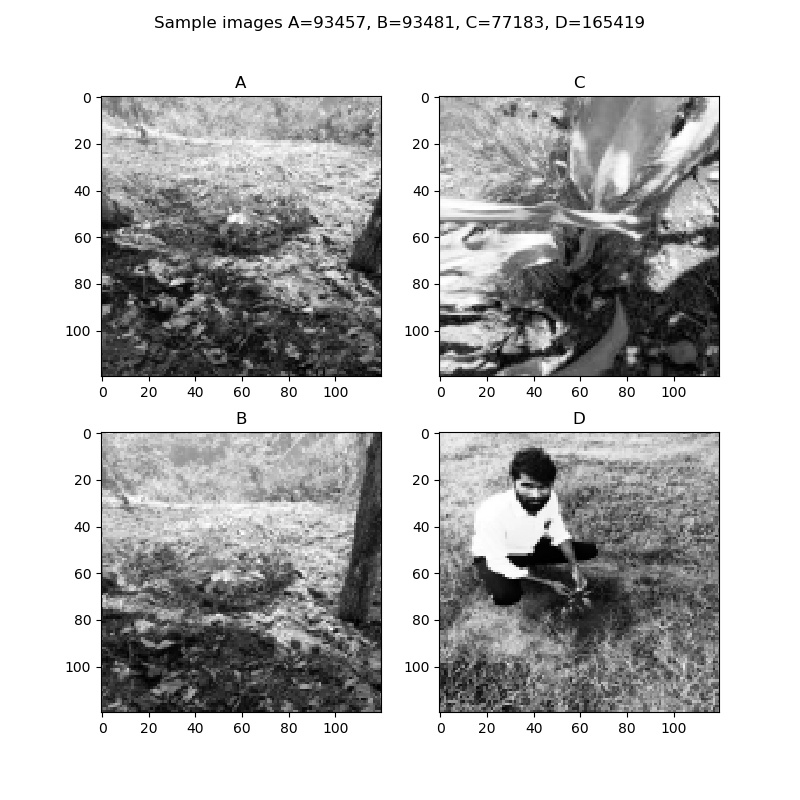
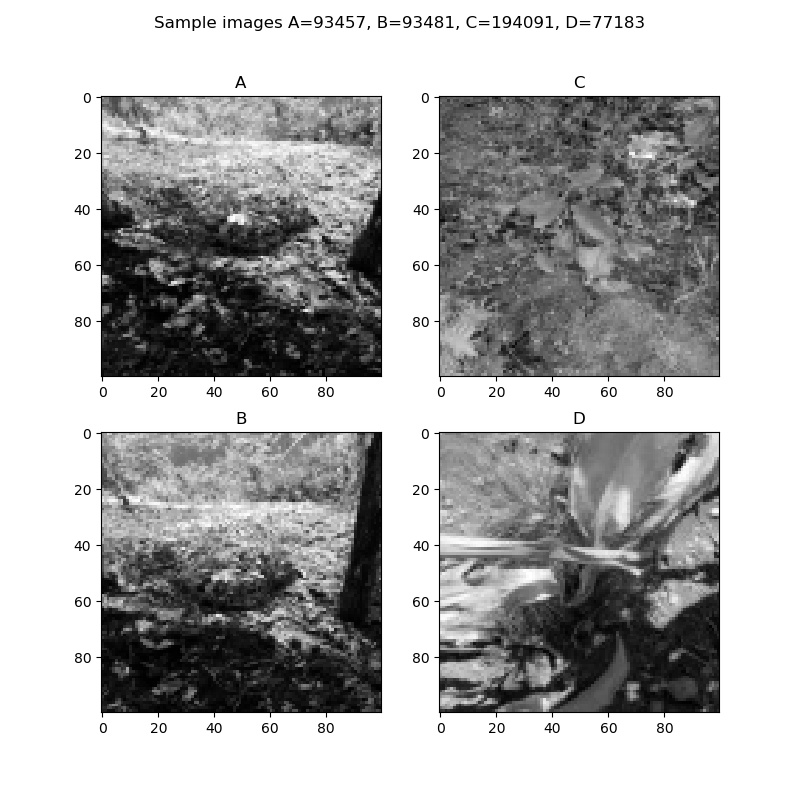
custom hashes

diff --git a/hash.py b/hash.py
@@ -1,6 +1,31 @@
 import cv2
 import numpy as np
 from scipy.fft import dctn
+from scipy.ndimage import maximum_filter, minimum_filter
+
+
+def hamming_sort(candidate_image_hash, compared_image_hashes):
+    '''
+    A helper function to sort a list of image hashes (represented as integers) by Hamming distance from the
+    specified candidate image hash
+    :param candidate_image_hash: Hash to look for
+    :param compared_image_hashes: List of integers consisting of the image hashes to compare to
+    :return: tuple(np.ndarray, np.ndarray) of sorted arguments and the corresponding hamming distance
+    '''
+    hammings = [hamming_distance(candidate_image_hash, h) for h in compared_image_hashes]
+    idxs = np.argsort(hammings)
+    return idxs, np.sort(hammings)
+
+
+def binary_array_to_int(arr):
+    '''
+    Helper function to take binary bitmask and return sum of 2 ** x for each index x in the flattened arr
+    such that arr[x] = 1.
+    :param arr: binary array
+    :return: int
+    '''
+    return int(np.sum(np.exp2(np.flatnonzero(arr))))
+
 
 def hamming_distance(img1_hash, img2_hash):
     '''
@@ -14,17 +39,17 @@ def hamming_distance(img1_hash, img2_hash):
         raise ValueError("arguments must be decimal integers, arguments provided are %s, %s" %(type(img1_hash), type(img2_hash)))
     return np.binary_repr(img1_hash ^ img2_hash).count("1")
 
-def preprocess(images):
+
+def preprocess(images, size, interp=cv2.INTER_AREA):
     '''
     Short method to apply several transformations before hashing procedure.
     :param images: (list) images to transform
     :return: (list) of transformed images corresponding to passed images
     '''
-    return [cv2.equalizeHist(
-                cv2.cvtColor(
-                np.uint8(
-                cv2.normalize(img, None, 0, 255, cv2.NORM_MINMAX)) ,
-                cv2.COLOR_BGR2GRAY)) for img in images]  # or convert) for img in images]
+    return [cv2.resize(
+            cv2.cvtColor(
+            np.uint8(
+            cv2.normalize(img, None, 0, 255, cv2.NORM_MINMAX)) ,cv2.COLOR_BGR2GRAY), (size,size), interpolation=interp)for img in images]  # or convert) for img in images]
 
 
 class HashCode():
@@ -60,16 +85,6 @@ class ImageHasher():
 
 
 
-    def binary_array_to_int(self, arr):
-        '''
-        Helper function to take binary bitmask and return sum of 2 ** x for each index x in the flattened arr
-        such that arr[x] = 1.
-        :param arr: binary array to
-        :return:
-        '''
-        return int(np.sum(np.exp2(np.flatnonzero(arr))))
-
-
     def average_hash(self, img):
         '''
         Averge hashing implementation to return hash of bits greater than average of
@@ -80,7 +95,7 @@ class ImageHasher():
         resized = cv2.resize(img, (self.size, self.size), interpolation=cv2.INTER_AREA)
         # following one liner avoids unnecessary variable assignment. The average hash takes the mean grayscal pixel intensity
         # and generates hash from (flattened) indices greater than the mean
-        return self.binary_array_to_int(resized > np.mean(resized))
+        return resized > np.mean(resized)
 
     def difference_hash(self, img):
         '''
@@ -94,25 +109,27 @@ class ImageHasher():
         resized = cv2.resize(img, (self.size + 1, self.size), interpolation=cv2.INTER_AREA)
         # following one liner avoids unnecessary variable assignment. The difference hash takes the left-right difference
         # of grayscale pixel intensities and generates a hash from the indices
-        return self.binary_array_to_int(resized[:, 1:] > resized[:, :-1])
+        return resized[:, 1:] > resized[:, :-1]
 
 
-    def dct_hash(self, img):
+    def dct_hash(self, img, blur_dim=7):
         '''
         :param img: (np.ndarray) the RGB image to find a difference hash function of
         :param hash_size: (int) the number of bits in the hash (ex. setting to 8 yields 2**8=64 bit address)
-        :return: (int) 2 ** hash_size bit image hash function
+        :param blur_dim(int) size of square mean-filter
+        :return: (tuple(np.ndarray, np.ndarray)) 2 ** hash_size bit image hash binary array and DCT matrix output
         '''
         if self.size != 8:
-            raise UserWarning("Original DCT was 8 x 8 so size parameter of ImageHash object may be off")
-        dct_matx = dctn(img, type=2)[:self.size,:self.size].flatten() # original algorithm selects top 8x8=64
-        return self.binary_array_to_int(dct_matx > np.median(dct_matx))
+            print("Original DCT was 8 x 8 so size parameter of ImageHash object may be off")
+        dct_matx = dctn(cv2.blur(img, (blur_dim, blur_dim)), type=2,norm="ortho")
+        tr_matx = dct_matx[:self.size,:self.size].flatten()# original algorithm selects top 8x8=64
+        return tr_matx > np.median(tr_matx), dct_matx
 
 
 
     def marr_hildreth_hash(self, img, std=3, ksize=3):
         '''
-
+        TODO: Edge-detector based hash
         :param img:
         :param std:
         :param ksize:
@@ -121,3 +138,31 @@ class ImageHasher():
         resized = cv2.resize(cv2.cvtColor(img, cv2.COLOR_RGB2GRAY), (self.size, self.size), interpolation=cv2.INTER_AREA)
         img = cv2.Laplacian(cv2.GaussianBlur(img, (std,std), 0), kernel_size=ksize)
         # TODO: Finish marr hildreth edge-based hash if others don't work
+
+
+    def histo_hash(self, img, nbins=64, filter_size=5):
+        '''
+        Use histogram of pixel intensity values to generate non-positional hash
+        :param nbins: Number of bits = number of bins
+        :param filter_size: size of square max/min filtering operations
+        :return: (np.ndarray) binary array
+        '''
+        diff = maximum_filter(img, size=(filter_size, filter_size)) - minimum_filter(img, size=(filter_size,filter_size))
+        histo = np.histogram(diff, bins=nbins)[0]
+        histo = np.log10(histo + 1)
+        return  histo > np.median(histo)
+
+
+    def histo_avg_hash(self, img, nbins=32, filter_size=5):
+        '''
+        Use histogram of pixel intensity values to generate non-positional hash and concatenate to
+        average hash so positional and nonpositional information is accounted for.
+        :param nbins: Number of bits = number of bins
+        :param filter_size: size of square max/min filtering operations
+        :return:
+        '''
+        diff = maximum_filter(img, size=(filter_size, filter_size)) - minimum_filter(img, size=(filter_size,filter_size))
+        histo = np.histogram(diff, bins=nbins)[0]
+        histo = np.log10(histo + 1)
+        resized = cv2.resize(img, (8,8))
+        return np.concatenate([histo > np.median(histo), (resized > np.mean(resized)).flatten()])

diff --git a/process_playground.py b/process_playground.py
@@ -6,41 +6,37 @@ import cv2
 import numpy as np
 import imagehash
 import os
-from hash import ImageHasher, hamming_distance, preprocess
-
+from scipy.ndimage import maximum_filter, minimum_filter
+from hash import *
 
 # to 93457 to 93481 duplicates
 data = GreenstandDataset('nov11data.csv')
 key1 = 93457
 key2 = 93481
-key3 = int(7.718300000000000000e+04)
-key4 = int(1.654190000000000000e+05)
+random_ids = np.loadtxt("onepercentids.txt")
+randoms = [data.read_image_from_db('random_zeroone_percent_db/', key=int(r)) for r in random_ids]
 
 # Comparison test
 a = data.read_image_from_db('duplicates_db/', key=key1)
 b = data.read_image_from_db('duplicates_db/', key=key2)
-c = data.read_image_from_db(os.path.join(os.getcwd(), 'random_zeroone_percent_db/'), key=key3)
-d = data.read_image_from_db('random_zeroone_percent_db/', key=key4)
-images = [a,b,c,d]
-images = preprocess(images)
-size = 120
-images = [cv2.resize(img,(size,size), interpolation=cv2.INTER_AREA) for img in images]
+images = [a, b] + randoms
+images = preprocess(images, size=100)
 
 # if doing hash comparison is slow consider switching to greyscale and
 # making images smaller
-fig, axarr = plt.subplots(2,2, figsize=(8,8))
-plt.suptitle("Sample images A=%d, B=%d, C=%d, D=%d"%(key1,key2,key3,key4))
-axarr[0,0].imshow(images[0], cmap='gray')
-axarr[0,0].set_title("A")
-axarr[1,0].imshow(images[1], cmap='gray')
-axarr[1,0].set_title("B")
-axarr[0,1].imshow(images[2], cmap='gray')
-axarr[0,1].set_title("C")
-axarr[1,1].imshow(images[3], cmap='gray')
-axarr[1,1].set_title("D")
-plt.savefig("playground_images/bw_histo_image_samples.jpg")
-plt.show()
-plt.figure()
+# fig, axarr = plt.subplots(2,2, figsize=(8,8))
+# plt.suptitle("Sample images A=%d, B=%d, C=%d, D=%d"%(key1,key2,random_ids[0],random_ids[1]))
+# axarr[0,0].imshow(images[0], cmap='gray')
+# axarr[0,0].set_title("A")
+# axarr[1,0].imshow(images[1], cmap='gray')
+# axarr[1,0].set_title("B")
+# axarr[0,1].imshow(images[2], cmap='gray')
+# axarr[0,1].set_title("C")
+# axarr[1,1].imshow(images[3], cmap='gray')
+# axarr[1,1].set_title("D")
+# plt.savefig("playground_images/bw_histo_image_samples.jpg")
+# plt.show()
+# plt.figure()
 
 hsize = 8
 my_hasher = ImageHasher(hsize)
@@ -48,9 +44,25 @@ my_hasher = ImageHasher(hsize)
 imagehash_diff_hashes = [imagehash.dhash(Image.fromarray(img), hash_size=hsize) for img in images]
 imagehash_avg_hashes = [imagehash.average_hash(Image.fromarray(img), hash_size=hsize) for img in images]
 imagehash_dct_hashes = [imagehash.phash(Image.fromarray(img), hash_size=8, highfreq_factor=4) for img in images]
-diff_hashes = [my_hasher.difference_hash(img) for img in images]
-avg_hashes = [my_hasher.average_hash(img) for img in images]
-dct_hashes = [my_hasher.dct_hash(img) for img in images]
+diff_hashes = [binary_array_to_int(my_hasher.difference_hash(img)) for img in images]
+avg_hashes = [binary_array_to_int(my_hasher.average_hash(img)) for img in images]
+dct_hashes = [binary_array_to_int(my_hasher.dct_hash(img)[0]) for img in images]
+dcts = [my_hasher.dct_hash(img)[1] for img in images]
+
+# n = 8
+# f, axarr = plt.subplots(2,2)
+# plt.suptitle("Sample DCTS A=%d, B=%d, C=%d, D=%d"%(key1,key2,key3,key4))
+# axarr[0,0].imshow(dcts[0][:n,:n])
+# axarr[0,0].set_title("A")
+# axarr[1,0].imshow(dcts[1][:n,:n])
+# axarr[1,0].set_title("B")
+# axarr[0,1].imshow(dcts[2][:n,:n])
+# axarr[0,1].set_title("C")
+# axarr[1,1].imshow(dcts[3][:n,:n])
+# axarr[1,1].set_title("D")
+# plt.savefig("playground_images/dcts.jpg")
+# plt.show()
+# plt.figure()
 
 print ("Comparison to ImageHash library")
 for i in range(len(images)):
@@ -99,24 +111,90 @@ print ("A vs A_fake vs B")
 print (a_hash)
 print (a_fake_hash)
 print (b_hash)
+print (a_hash - b_hash)
 
-
-# print (a_hash)
+def ext_viz(img, filter_size, nbins=8):
+    max_filtered = maximum_filter(img, size=(filter_size, filter_size))
+    min_filtered = minimum_filter(img, size=(filter_size,filter_size))
+    f, axarr = plt.subplots(2,3)
+    axarr[0,0].imshow(max_filtered)
+    axarr[0,1].imshow(min_filtered)
+    axarr[0,2].imshow(max_filtered - min_filtered)
+    axarr[1,0].plot(np.histogram(max_filtered, bins=nbins)[0])
+    axarr[1,0].grid()
+    axarr[1,1].plot(np.histogram(min_filtered, bins=nbins)[0])
+    axarr[1,1].grid()
+    axarr[1,2].plot(np.histogram(max_filtered - min_filtered, bins=8)[0])
+    axarr[1,2].grid()
+    plt.show()
+    return max_filtered, min_filtered
 #
-# print (a_hash - b_hash)
-# print (np.count_nonzero((a_hash)!= (b_hash)))
-#
-# print (np.count_nonzero([0,0,1] != [0,0,0]))
+# max0, min0 = ext_viz(images[0], 8, nbins=8)
+# max1, min1 = ext_viz(images[1], 8, nbins=8)
+# max2, min2 = ext_viz(images[2], 8)
+# max3, min3 = ext_viz(images[3], 8)
 
-# orb = cv2.ORB()
-# print ("ORB Initialized")
-# kp, des = orb.detectAndCompute(a, None)
 
-# print ("HERE")
-# draw only keypoints location,not size and orientation
-# img2 = cv2.drawKeypoints(a, kp, color=(0,255,0), flags=0)
-# plt.imshow(img2)
-# plt.show()
-#
-# plt.imshow(a)
-# plt.show()
+
+histo_hashes = [binary_array_to_int(my_hasher.histo_hash(img, 64, 5)) for img in images]
+histo_hybrid_hashes = [binary_array_to_int(my_hasher.histo_avg_hash(img)) for img in images]
+
+
+
+
+print ("AVERAGE HASH")
+idxs, hams = hamming_sort(avg_hashes[0], avg_hashes)
+print (idxs)
+print (hams)
+
+f, axarr = plt.subplots(2,2)
+plt.suptitle("Top 4 matches of average hashing")
+axarr[0, 0].imshow(images[idxs[0]])
+axarr[1, 0].imshow(images[idxs[1]])
+axarr[0, 1].imshow(images[idxs[2]])
+axarr[1, 1].imshow(images[idxs[3]])
+plt.show()
+
+
+print ("DIFFERENCE HASH")
+idxs, hams = hamming_sort(diff_hashes[0], diff_hashes)
+print (idxs)
+print (hams)
+
+f, axarr = plt.subplots(2,2)
+plt.suptitle("Top 4 matches of difference hashing")
+axarr[0, 0].imshow(images[idxs[0]])
+axarr[1, 0].imshow(images[idxs[1]])
+axarr[0, 1].imshow(images[idxs[2]])
+axarr[1, 1].imshow(images[idxs[3]])
+plt.show()
+
+
+print ("PROPOSED HISTOGRAM HASH")
+idxs, hams = hamming_sort(histo_hashes[0], histo_hashes)
+print (idxs)
+print (hams)
+
+f, axarr = plt.subplots(2,2)
+plt.suptitle("Top 4 matches of histogram hashing")
+axarr[0, 0].imshow(images[idxs[0]])
+axarr[1, 0].imshow(images[idxs[1]])
+axarr[0, 1].imshow(images[idxs[2]])
+axarr[1, 1].imshow(images[idxs[3]])
+plt.show()
+
+
+print ("PROPOSED MODIFIED HISTOGRAM HASH")
+idxs, hams = hamming_sort(histo_hybrid_hashes[0], histo_hybrid_hashes)
+print (idxs)
+print (hams)
+
+
+
+f, axarr = plt.subplots(2,2)
+plt.suptitle("Top 4 matches of modified histogram hashing")
+axarr[0, 0].imshow(images[idxs[0]])
+axarr[1, 0].imshow(images[idxs[1]])
+axarr[0, 1].imshow(images[idxs[2]])
+axarr[1, 1].imshow(images[idxs[3]])
+plt.show()
